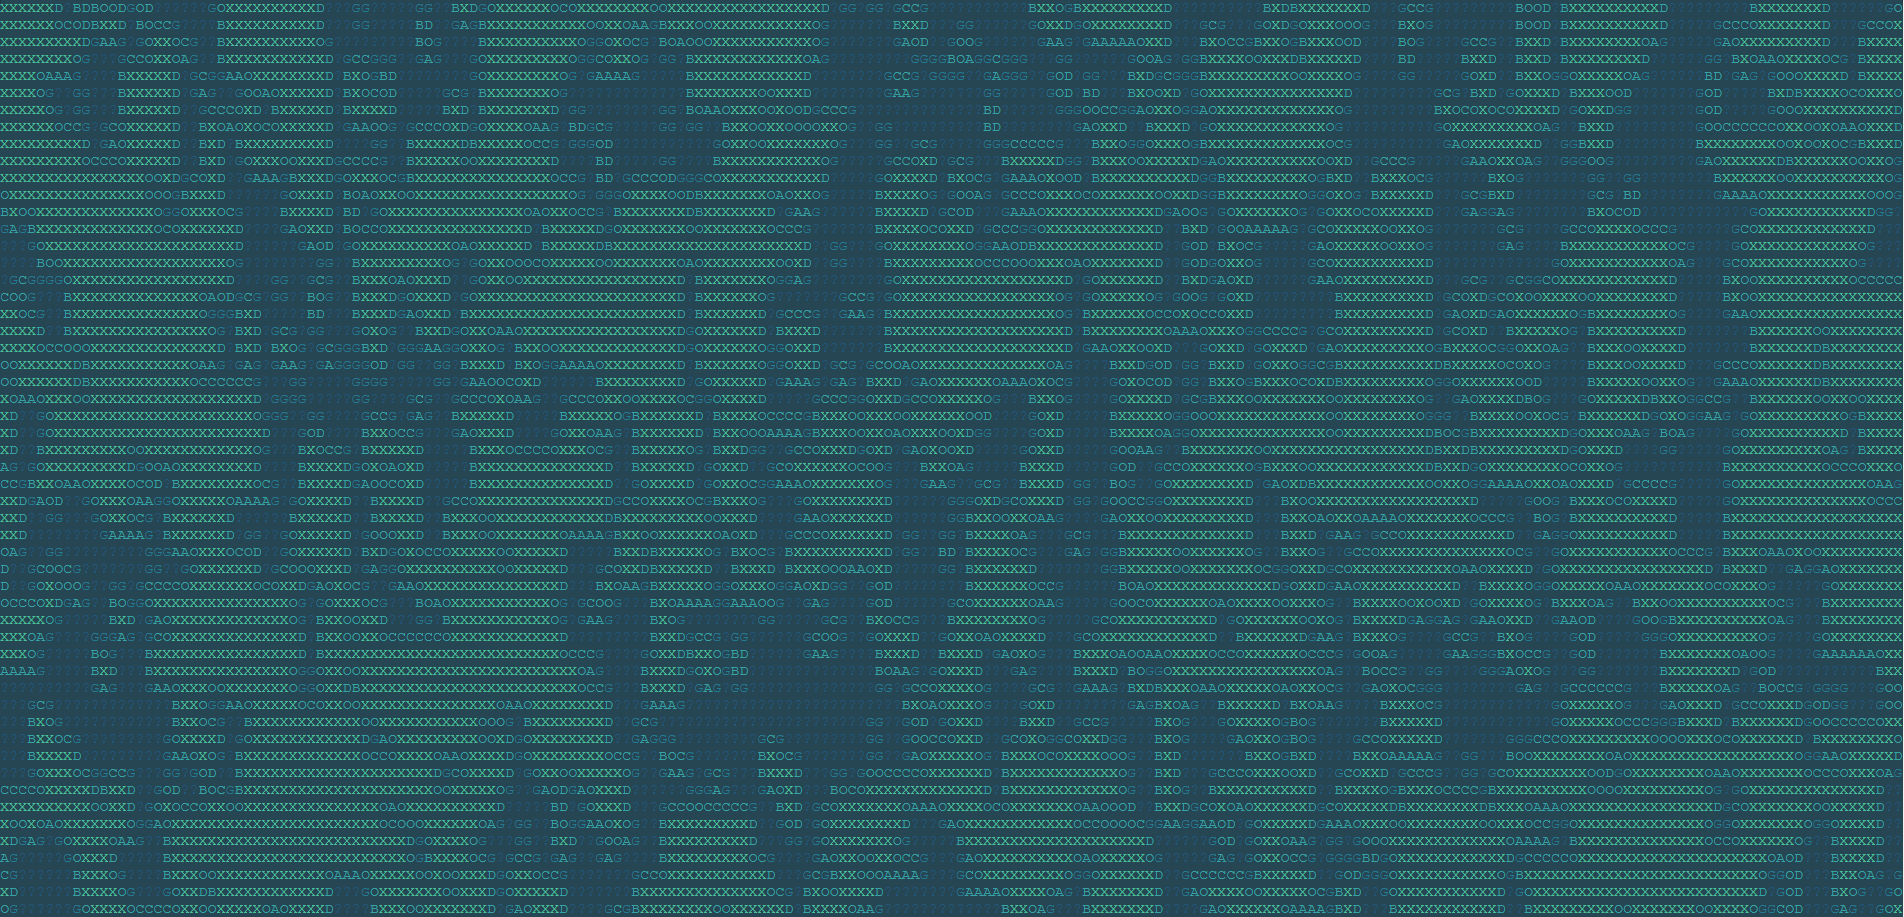
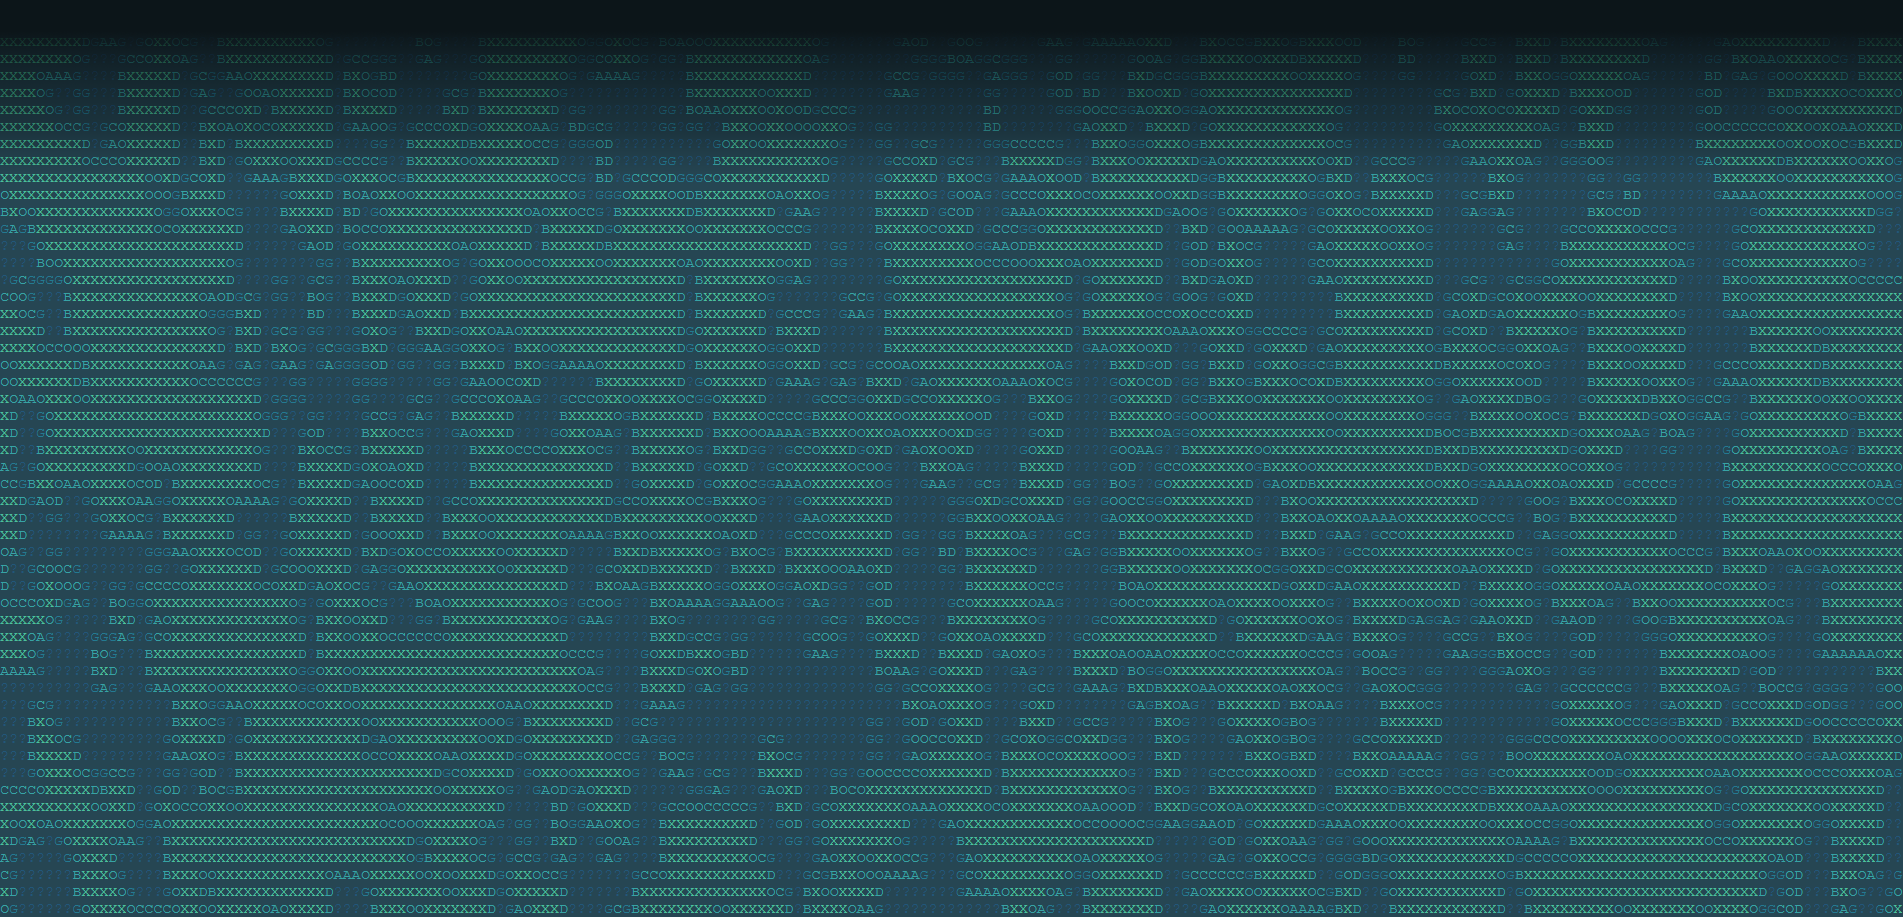
fixed background maps and started the projects section

Changed region(s): [[0.0, 0.0, 1.0, 1.0], [0.341, 0.6718, 0.372, 0.7328]]

diff --git a/frontend/src/App.jsx b/frontend/src/App.jsx
@@ -11,6 +11,7 @@ import Carousel from "./Carousel.jsx";
 import CarouselJustImages from "./carouselJustImages.jsx";
 import {Axios} from "axios";
 import AboutMeNew from "./aboutMeNew.jsx";
+import ProjectsNew from "./ProjectsNew.jsx";
 
 function App() {
     const headerRef = useRef(null);
@@ -31,7 +32,7 @@ function App() {
             </div>
             <Title />
             <AboutMeNew />
-            <AboutMe />
+            <ProjectsNew />
             <Carousel />
             <Timeline />
             <Contact />

diff --git a/frontend/src/index.css b/frontend/src/index.css
@@ -464,6 +464,8 @@ body {
     display: block;
     max-width: 100%;
     overflow: hidden;
+    margin: 0;
+    height: 917px;
 }
 
 .image-container img {
@@ -479,7 +481,7 @@ body {
     left: 0;
     width: 100%;
     height: 100%;
-    background-color: rgba(12, 21, 25, 85%);
+    background-color: rgba(12, 21, 25, 70%);
     pointer-events: none;
 }
 

diff --git a/frontend/src/ProjectsNew.jsx b/frontend/src/ProjectsNew.jsx
@@ -1,0 +1,12 @@
+import AboutMe from "./aboutMe.jsx";
+
+function ProjectsNew(){
+    return (
+        <div className="aboutMe-container">
+            <img src={"/map_2.png"} alt={"BackgroundMap"}/>
+            <div className={"color-overlay"}></div>
+        </div>
+    );
+}
+
+export default ProjectsNew;
